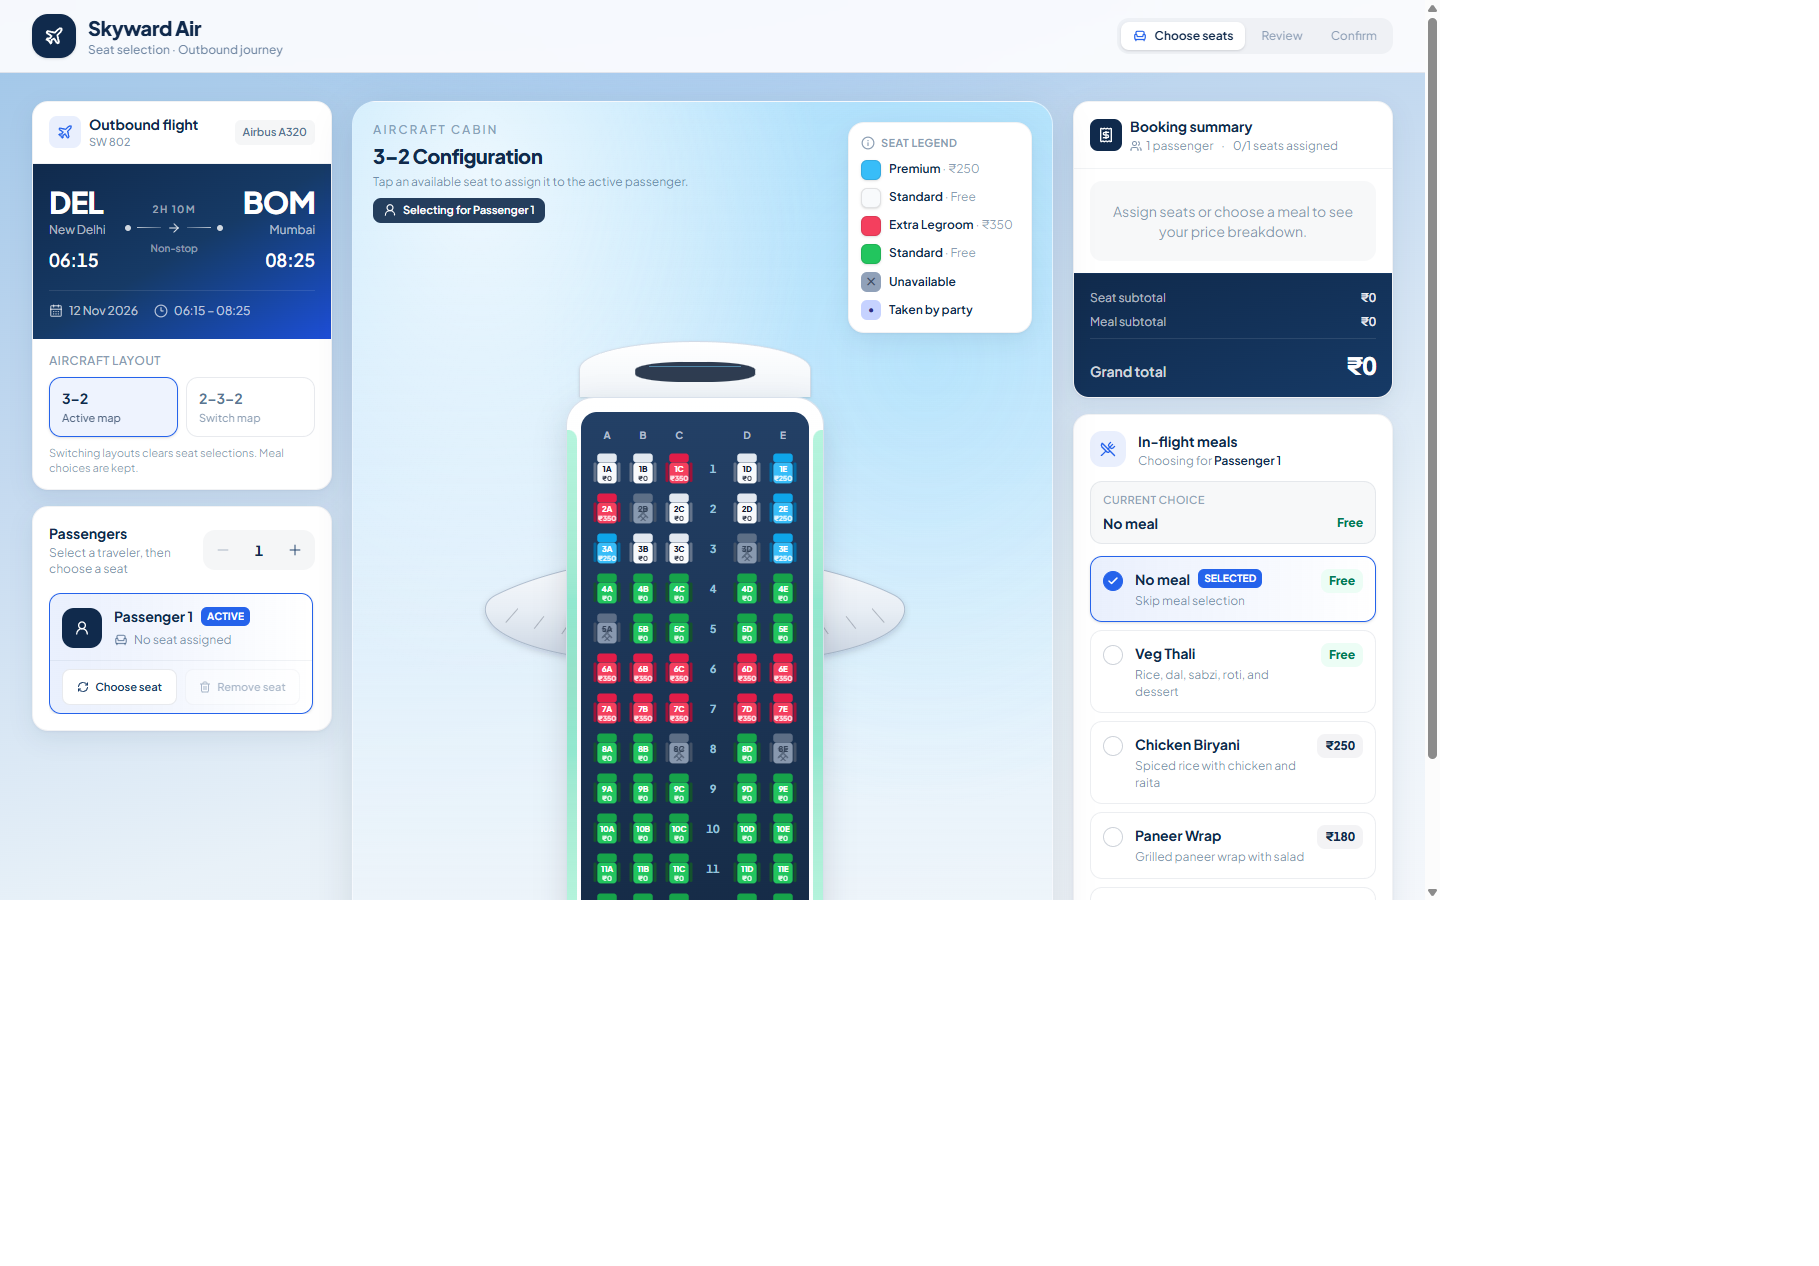
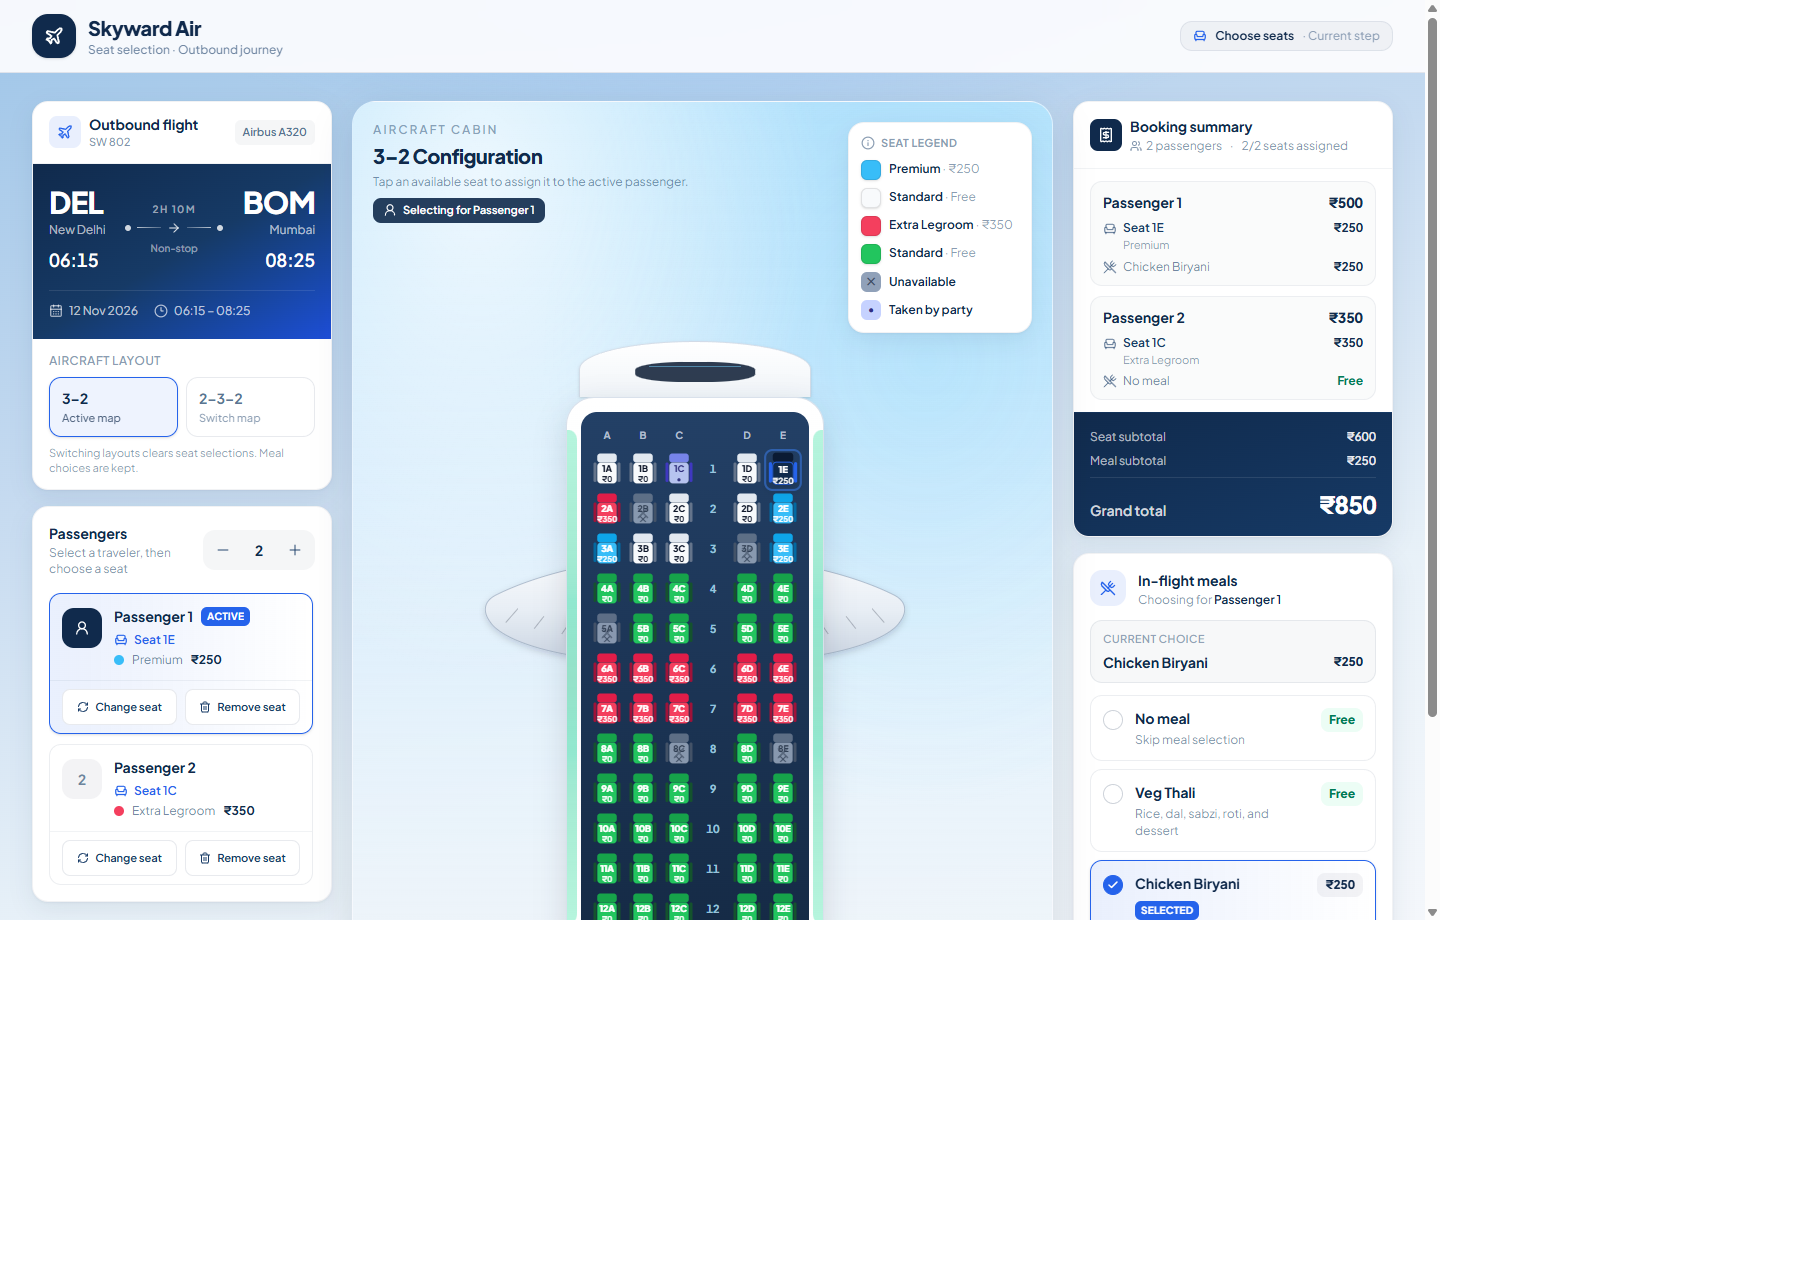
screenshot

diff --git a/src/components/Header.jsx b/src/components/Header.jsx
@@ -18,24 +18,13 @@ export default function Header() {
           </div>
         </div>
 
-        <nav
-          className="hidden items-center gap-1 rounded-xl bg-navy-950/4 p-1 sm:flex"
-          aria-label="Booking steps"
+        <p
+          className="inline-flex items-center gap-2 rounded-xl border border-navy-900/8 bg-navy-950/4 px-3 py-1.5 text-xs font-semibold text-navy-900"
+          aria-current="step"
         >
-          <span className="inline-flex items-center gap-2 rounded-lg bg-white px-3 py-1.5 text-xs font-semibold text-navy-900 shadow-sm">
-            <Armchair className="h-3.5 w-3.5 text-royal-600" aria-hidden="true" />
-            Choose seats
-          </span>
-          <span className="rounded-lg px-3 py-1.5 text-xs font-medium text-navy-800/45">
-            Review
-          </span>
-          <span className="rounded-lg px-3 py-1.5 text-xs font-medium text-navy-800/45">
-            Confirm
-          </span>
-        </nav>
-
-        <p className="rounded-lg bg-royal-600/10 px-2.5 py-1 text-[11px] font-bold text-royal-700 sm:hidden">
-          Choose seats
+          <Armchair className="h-3.5 w-3.5 text-royal-600" aria-hidden="true" />
+          <span>Choose seats</span>
+          <span className="hidden font-medium text-navy-800/45 sm:inline">· Current step</span>
         </p>
       </div>
     </header>

diff --git a/src/components/Seat.jsx b/src/components/Seat.jsx
@@ -98,11 +98,15 @@ export default function Seat({ seat, isSelected, isTaken, onSelect }) {
       </svg>
 
       <span
-        className="pointer-events-none absolute inset-x-0 top-[38%] flex flex-col items-center leading-none"
+        className="pointer-events-none absolute inset-x-0 top-[36%] flex flex-col items-center leading-none"
         style={{ color: palette.text }}
       >
-        <span className="text-[8px] font-extrabold tracking-tight sm:text-[8px]">{seat.id}</span>
-        <span className="mt-0.5 text-[7px] font-bold opacity-90">{priceText}</span>
+        <span className="text-[9px] font-extrabold tracking-tight drop-shadow-[0_0.5px_0_rgba(255,255,255,0.35)]">
+          {seat.id}
+        </span>
+        <span className="mt-0.5 text-[8px] font-bold tabular-nums opacity-95">
+          {priceText}
+        </span>
       </span>
     </button>
   )
